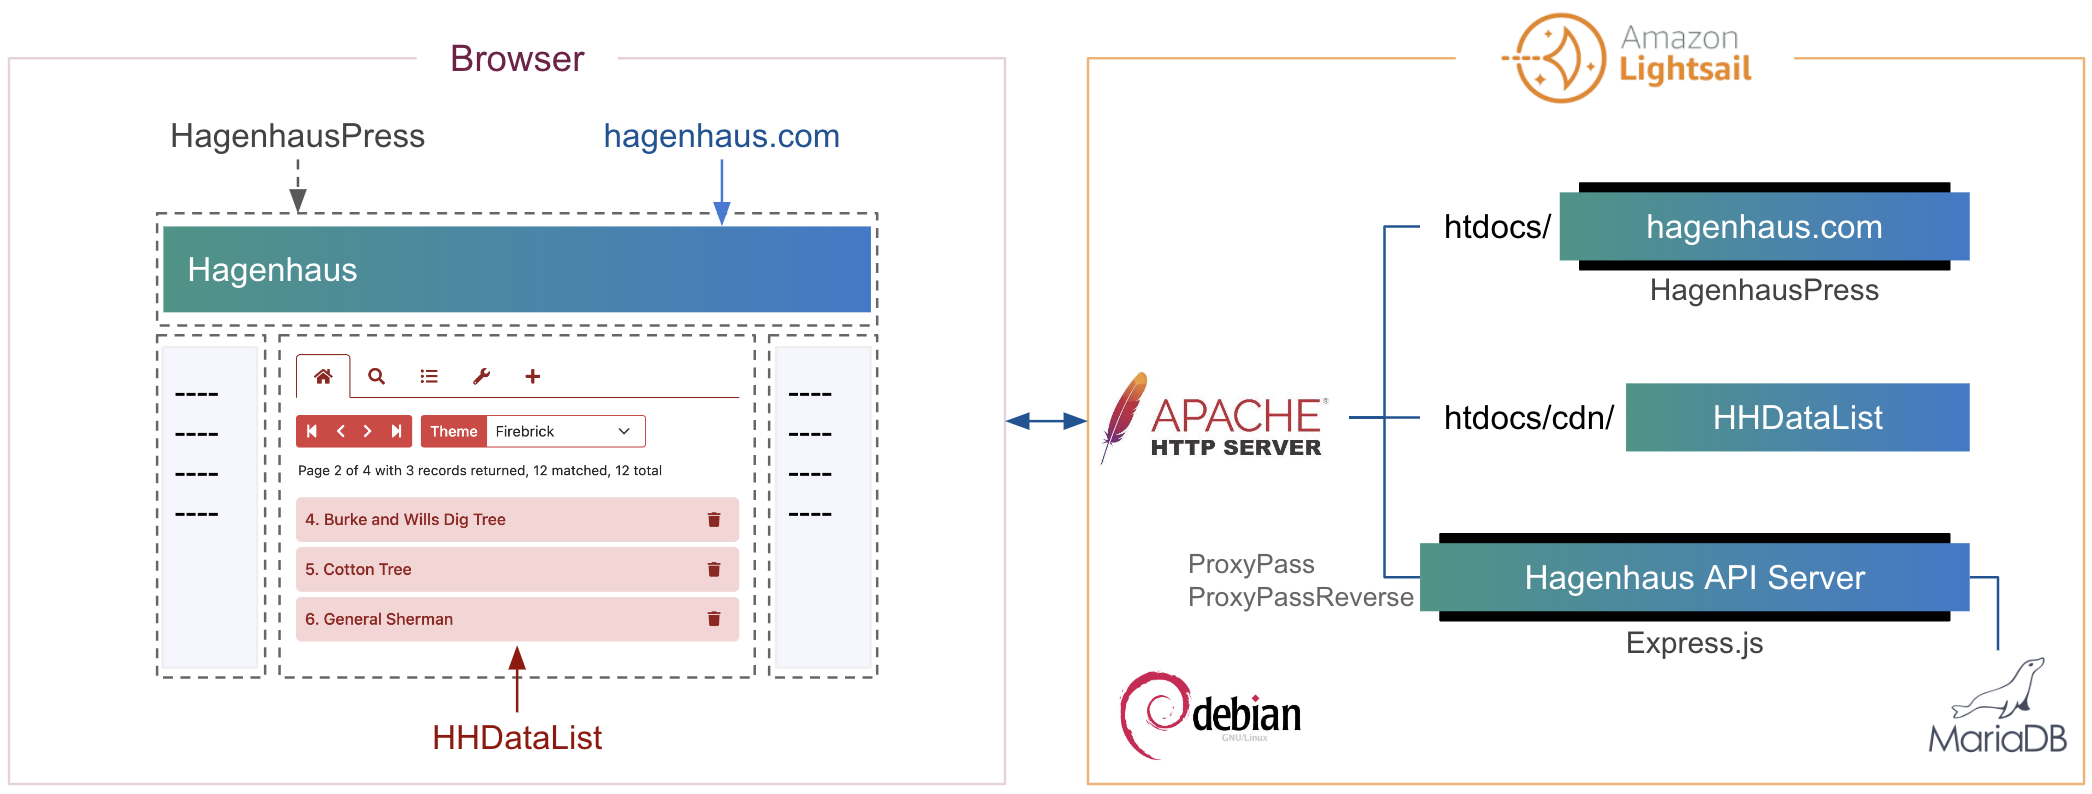
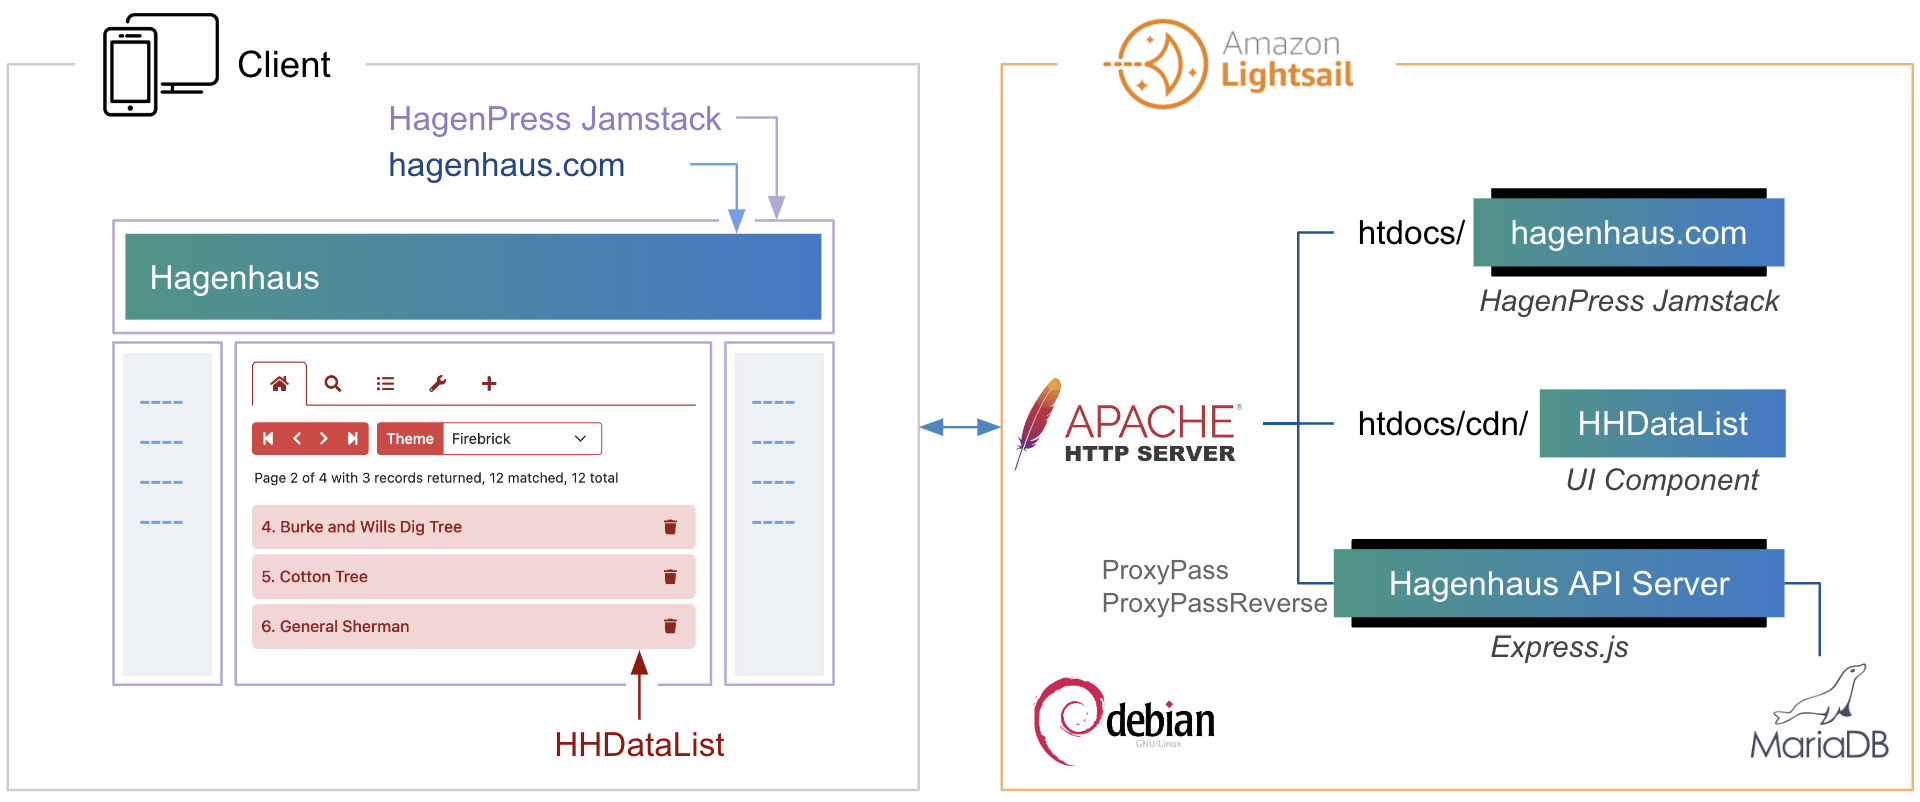
Building portfolio in home.

diff --git a/en/base.html b/en/base.html
@@ -36,7 +36,7 @@
       <div class="collapse navbar-collapse" id="navbar-collapse">
         <ul class="navbar-nav me-auto">
           <li class="nav-item"><a id="mi-hhdatalist" class="nav-link follow" href="/en/hhdatalist/v0.0.2/"><span>HHDataList</span></a></li>
-          <!-- <li class="nav-item"><a id="mi-about" class="nav-link follow" href="/en/about/"><span>About</span></a></li> -->
+          <li class="nav-item"><a id="mi-contact" class="nav-link follow" href="/en/contact/"><span>Contact</span></a></li>
         </ul>
         <ul class="navbar-nav">
           <!-- <li class="nav-item"><a id="mi-gitter" class="nav-link follow" href="https://gitter.im/hagenhaus/hhdatalist"><span><i class="fab fa-gitter"></i></span></a></li> -->

diff --git a/assets/dl-options-002.js b/assets/dl-options-002.js
@@ -142,7 +142,7 @@ class DLAuthorsOptions002 extends DLBaseOptions002 {
 class DLPlayersOptions002 extends DLBaseOptions002 {
   constructor(id) {
     super(id);
-    this.descriptions.home = 'View baseball player records in the <a href="https://www.seanlahman.com/baseball-archive/statistics/">Lahman Baseball Dataset</a>.';
+    this.descriptions.home = 'View baseball player records in the <a href="http://seanlahman.com/">Lahman Baseball Dataset</a>.';
     this.fieldDefinitions = {
       manage: [
         { fieldName: 'playerID', isChecked: false },

diff --git a/en/home/index.md b/en/home/index.md
@@ -1,24 +1,91 @@
 ---
-hasOtp: false
-hasPageHeader: false
-hasScrollbar: false
+author: ""
+hasOtp: true
+hasPageHeader: true
+hasScrollbar: true
 hhdatalist: v0.0.2
 menuItem: mi-home
 ---
 
-# Home
+# Introduction
 
-My name is [Matthew Hagen](https://www.upwork.com/freelancers/~012d439e8f89131bbb?viewMode=1), a *freelance* **Developer Portal Specialist**, and this website, [hagenhaus.com](https://hagenhaus.com/), is my demo portal consisting of the following components:
+My name is [Matt Hagen](/en/about/), a *freelance* creator of elegant content for software developers. The following responsive diagram illustrates both my webapp, [hagenhaus.com](/en/home/), and intuitive content:
 
-<div class="d-none d-md-block">
-  <p><img src="diagram-h.png" class="img-fluid d-block" loading="lazy"></p>
+<div class="mb-3">
+  <div class="d-none d-md-block">
+    <div><img src="diagram-h.png" class="img-fluid mx-auto d-block" width="800" height="334"; loading="lazy"></div>
+  </div>
+  <div class="d-md-none">
+    <div><img src="diagram-v-1.png" class="img-fluid mx-auto d-block" width="391" height="437"; loading="lazy"></div>
+    <div><img src="diagram-v-2.png" class="img-fluid mx-auto d-block" width="391" height="437"; loading="lazy"></div>
+  </div>
 </div>
-<div class="d-md-none">
-  <div><img src="diagram-v-1.png" class="img-fluid d-block" loading="lazy"></div>
-  <div><img src="diagram-v-2.png" class="img-fluid d-block" loading="lazy"></div>
-</div>
 
-In the diagram, notice [HHDataList](/en/hhdatalist/v0.0.2/), my generic UI component for interacting with REST APIs. The [HHDataList](/en/hhdatalist/v0.0.2/) page provides examples of my work including guides, tutorials, diagrams, articles, OpenAPI, and themes.
+# HHDataList
 
-Contact me via [upwork.com](https://www.upwork.com/freelancers/~012d439e8f89131bbb?viewMode=1) for all your Developer Portal needs. Most of my work consists of creating developer guides and REST API references for a wide variety of technologies and cloud services. I also organize and deploy developer portals built on standard platforms like [readme.com](https://readme.com/). And, I edit existing content, design and test REST APIs, and provide developer training.
+Shown in the diagram above, [HHDataList](/en/hhdatalist/v0.0.2/) is a highly configurable UI component for interacting with any REST API. The following instance accesses the [Lahman Baseball Dataset](http://seanlahman.com/) imported into MariaDB behind Hagenhaus API Server:
 
+<div id="players-datalist" class="hh-data-list mt-4"></div>
+<script>
+  var playersOptions = new DLPlayersOptions002('players-datalist');
+  playersOptions.themeDefinition.name = 'firebrick';
+  new HHDataList(playersOptions);
+</script>
+
+Try the following:
+
+1. Scroll using the arrows.
+1. Click a record to expand. Click it again to collapse.
+1. Click the Expand button to expand all. Scroll. Click Expand again to collapse all.
+1. Click the Wrench icon. Check Theme. Try different themes.
+
+The [HHDataList](/en/hhdatalist/v0.0.2/) documentation is another example of elegant content.
+
+# Developer Guides
+
+I created the first [Developer Portal](https://docs.aylanetworks.com/) for [Ayla Networks](https://www.aylanetworks.com/), and much of my work remains intact except for small updates. These docs help developers set up and configure devices, developer environments, and test environments by providing elegant explanations, diagrams, steps, and example code:
+
+* [Ayla Development Kit](https://docs.aylanetworks.com/docs/ayla-development-kit)
+* [Ayla Development Kit-ESP32C3 Module](https://docs.aylanetworks.com/docs/ayla-development-kit-esp32c3-module)
+* [Integrated Agent: ESP32 v1.3.8](https://docs.aylanetworks.com/docs/version-138)
+* [Ayla Linux Agent](https://docs.aylanetworks.com/docs/ayla-linux-device-solution)
+* [Ayla Linux Gateway Agent](https://docs.aylanetworks.com/docs/ayla-linux-gateway-solution)
+* [Ayla Rule Service](https://docs.aylanetworks.com/docs/ayla-rule-service-ars-preview)
+* [Ayla Cloud Events](https://docs.aylanetworks.com/docs/ayla-data-export-and-streaming-features)
+* [Handling Ack-enabled Properties](https://docs.aylanetworks.com/docs/handling-ack-enabled-properties)
+
+# Diagrams
+
+[Handling Ack-enabled Properties](https://docs.aylanetworks.com/docs/handling-ack-enabled-properties)
+
+<p><img src="ayla-two-step-ack-success.png" class="img-fluid d-block" loading="lazy"></p>
+
+<p><img src="ayla-ack-enabled-success.png" class="img-fluid d-block" loading="lazy"></p>
+
+[Ayla Rule Service](https://docs.aylanetworks.com/docs/ayla-rule-service-ars-preview)
+
+<p><img src="ayla-rule-service.png" class="img-fluid d-block" loading="lazy"></p>
+
+[Ayla Cloud Events](https://docs.aylanetworks.com/docs/ayla-data-export-and-streaming-features)
+
+<p><img src="ayla-cloud-events.png" class="img-fluid d-block" loading="lazy"></p>
+
+[Ayla Dataflow Overview](https://docs.aylanetworks.com/docs/message-properties#dataflow-overview)
+
+<p><img src="ayla-dataflow.png" class="img-fluid d-block" loading="lazy"></p>
+
+[Ayla Development Kit](https://docs.aylanetworks.com/docs/ayla-development-kit).
+
+<p><img src="ayla-device-cloud-app.png" class="img-fluid d-block" loading="lazy"></p>
+
+[Ayla Host Library](https://docs.aylanetworks.com/docs/ayla-development-kit-esp32c3-module)
+
+<p><img src="ayla-package-organization.png" class="img-fluid d-block" loading="lazy"></p>
+
+[Abstract Rule Expressions](https://docs.aylanetworks.com/docs/rules#abstract-rule-expressions)
+
+<p><img src="ayla-rule.png" class="img-fluid d-block" loading="lazy"></p>
+
+[Aura Main Menu](https://docs.aylanetworks.com/docs/aura-mobile-app#main-menu)
+
+<p><img src="ayla-aura-menu.png" class="img-fluid d-block" loading="lazy"></p>

diff --git a/en/contact/index.md b/en/contact/index.md
@@ -1,0 +1,9 @@
+---
+author: ''
+hasOtp: false
+menuItem: mi-contact
+---
+
+# Contact
+
+You can contact me via [LinkedIn](https://www.linkedin.com/in/matthew-hagen-9051b9334/) or [Upwork](https://www.upwork.com/freelancers/~012d439e8f89131bbb?viewMode=1).
